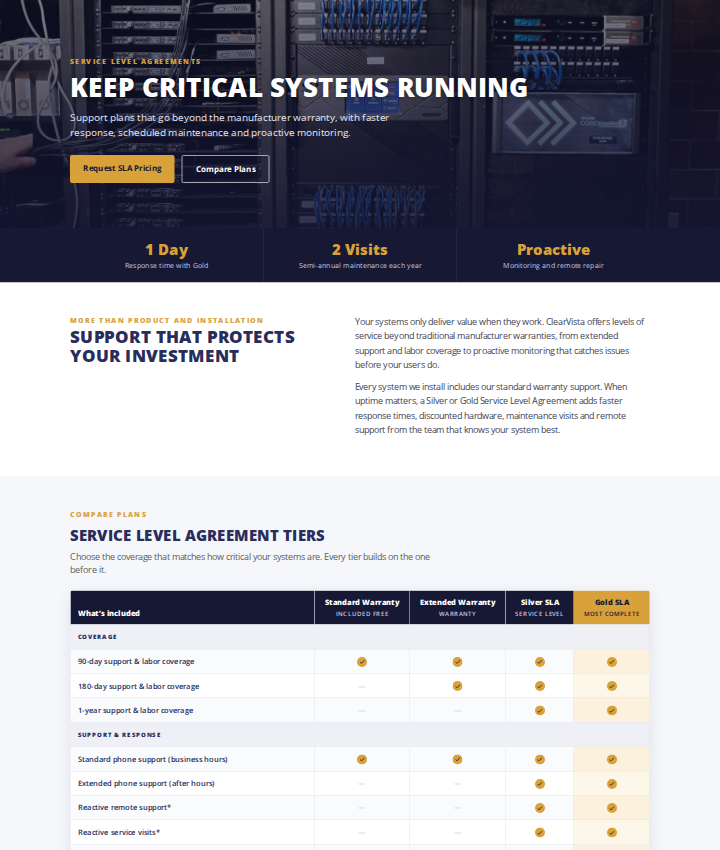
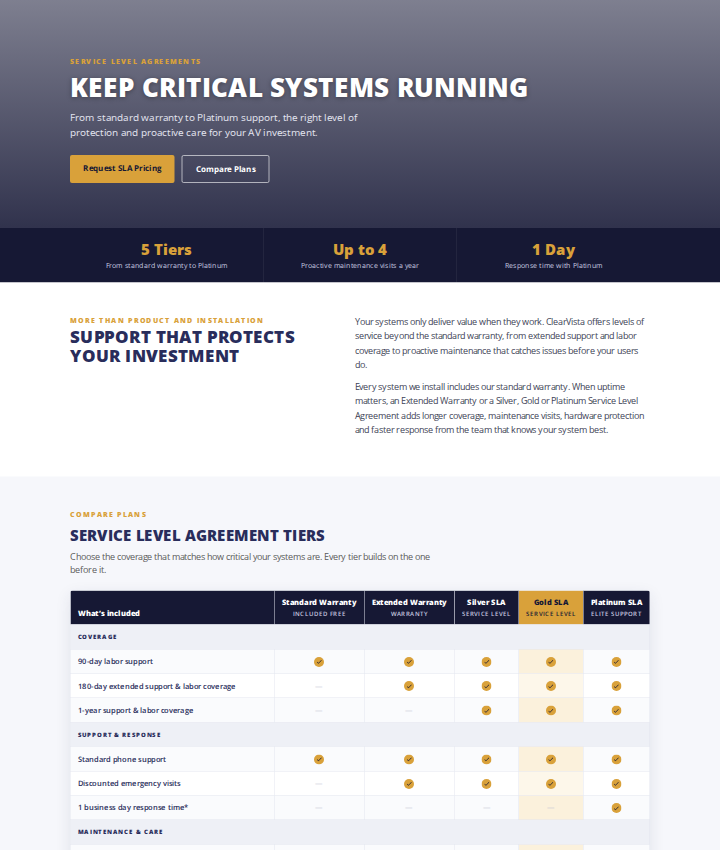
Document methods: CLAUDE.md, runbook, tools, change log and research
- CLAUDE.md with site conventions, style reference, content rules and workflow
- service-pages/tools: preview and live screenshot scripts, page-text diff helper
- docs: competitor research summary and log of live-site changes on 2026-09-24
- Refreshed SLA previews for the five-tier table

Claude-Session: https://claude.ai/code/session_01Xc28rmVeGjwK331j7Gcn43

diff --git a/service-pages/tools/preview-shot.js b/service-pages/tools/preview-shot.js
@@ -1,0 +1,34 @@
+// Screenshot a local preview page (built by gen.py with UTAH_HTML set) in chunks.
+//
+//   node tools/preview-shot.js <build-dir> <slug> <desk|mob> [out-dir]
+//
+// Uses the Chromium that Playwright finds (PLAYWRIGHT_BROWSERS_PATH) and routes
+// through HTTPS_PROXY when set, so live theme CSS, fonts and images load.
+const path = require('path');
+const fs = require('fs');
+let playwright;
+try { playwright = require('playwright'); } catch { playwright = require('/opt/node22/lib/node_modules/playwright'); }
+
+(async () => {
+  const [buildDir, slug, tag = 'desk', outDir = path.join(buildDir, 'shots')] = process.argv.slice(2);
+  if (!buildDir || !slug) { console.error('usage: preview-shot.js <build-dir> <slug> <desk|mob> [out-dir]'); process.exit(1); }
+  fs.mkdirSync(outDir, { recursive: true });
+  const proxy = process.env.HTTPS_PROXY || process.env.https_proxy;
+  const b = await playwright.chromium.launch(proxy ? { proxy: { server: proxy } } : {});
+  const w = tag === 'mob' ? 390 : 1440, scale = tag === 'mob' ? 1 : 0.5, chunk = tag === 'mob' ? 1400 : 1700;
+  const p = await b.newPage({ viewport: { width: w, height: 900 }, deviceScaleFactor: scale, ignoreHTTPSErrors: true });
+  await p.goto('file://' + path.resolve(buildDir, `${slug}.preview.html`), { waitUntil: 'load', timeout: 60000 }).catch(e => console.log('nav', e.message));
+  // Scroll through once so lazy-loaded images render.
+  await p.evaluate(async () => { for (let y = 0; y < document.body.scrollHeight; y += 600) { window.scrollTo(0, y); await new Promise(r => setTimeout(r, 120)); } window.scrollTo(0, 0); });
+  await p.waitForTimeout(1500);
+  const top = await p.evaluate(() => { const e = document.querySelector('.cvs-hero'); return e ? e.getBoundingClientRect().top + scrollY : 0; });
+  const bot = await p.evaluate(() => { const e = document.querySelector('.cvu-form-w') || document.querySelector('#cvs-quote'); return e ? e.getBoundingClientRect().bottom + scrollY : document.body.scrollHeight; });
+  const sw = await p.evaluate(() => document.documentElement.scrollWidth);
+  console.log(slug, tag, 'content', Math.round(top), '->', Math.round(bot), 'scrollWidth', sw, sw > w ? '(HORIZONTAL OVERFLOW)' : '');
+  let i = 0;
+  for (let y = top; y < bot; y += chunk, i++) {
+    await p.screenshot({ path: path.join(outDir, `${slug}-${tag}-${i}.png`), fullPage: true, clip: { x: 0, y, width: w, height: Math.min(chunk, bot - y) } });
+  }
+  console.log('chunks', i, '->', outDir);
+  await b.close();
+})();

diff --git a/service-pages/tools/live-shot.js b/service-pages/tools/live-shot.js
@@ -1,0 +1,22 @@
+// Screenshot the top of a live page after it has fully loaded.
+//
+//   node tools/live-shot.js <url> <out.png> [width=1440] [height=900]
+//
+// Waits 8 seconds after scrolling so CSS background images (hero photos) load;
+// shorter waits can show an empty grey hero even when the page is fine.
+let playwright;
+try { playwright = require('playwright'); } catch { playwright = require('/opt/node22/lib/node_modules/playwright'); }
+
+(async () => {
+  const [url, out, w = '1440', h = '900'] = process.argv.slice(2);
+  if (!url || !out) { console.error('usage: live-shot.js <url> <out.png> [width] [height]'); process.exit(1); }
+  const proxy = process.env.HTTPS_PROXY || process.env.https_proxy;
+  const b = await playwright.chromium.launch(proxy ? { proxy: { server: proxy } } : {});
+  const p = await b.newPage({ viewport: { width: +w, height: 1000 }, deviceScaleFactor: +w > 800 ? 0.5 : 1, ignoreHTTPSErrors: true });
+  await p.goto(url, { waitUntil: 'load', timeout: 60000 });
+  await p.evaluate(async () => { for (let y = 0; y < document.body.scrollHeight; y += 600) { window.scrollTo(0, y); await new Promise(r => setTimeout(r, 100)); } window.scrollTo(0, 0); });
+  await p.waitForTimeout(8000);
+  console.log('height', await p.evaluate(() => document.body.scrollHeight), 'scrollWidth', await p.evaluate(() => document.documentElement.scrollWidth));
+  await p.screenshot({ path: out, clip: { x: 0, y: 0, width: +w, height: +h }, fullPage: true });
+  await b.close();
+})();

diff --git a/service-pages/tools/page-text.py b/service-pages/tools/page-text.py
@@ -1,0 +1,22 @@
+#!/usr/bin/env python3
+"""Print the visible main-content text of a saved goclearvista.com page, one line per text node.
+
+Strips the header, scripts and styles so two saves of the same page can be diffed to confirm
+an edit changed only what was intended:
+
+    curl -sL --compressed -A 'Mozilla/5.0' https://www.goclearvista.com/about-us-2/ -o before.html
+    # ...make the edit...
+    curl -sL --compressed -A 'Mozilla/5.0' "https://www.goclearvista.com/about-us-2/?nc=$RANDOM" -o after.html
+    diff <(python3 tools/page-text.py before.html) <(python3 tools/page-text.py after.html)
+"""
+import html
+import re
+import sys
+
+s = open(sys.argv[1], encoding="utf-8", errors="ignore").read()
+m = re.search(r'<div id="et-main-area"(.*)<footer', s, re.S) or re.search(r"<body(.*)</body>", s, re.S)
+b = m.group(1)
+b = re.sub(r"<header.*?</header>", "", b, flags=re.S)
+b = re.sub(r"(?s)<(script|style)[^>]*>.*?</\1>", "", b)
+t = html.unescape(re.sub(r"<[^>]+>", "\n", b))
+print("\n".join(line.strip() for line in t.split("\n") if line.strip()))

diff --git a/docs/site-change-log-2026-09-24.md b/docs/site-change-log-2026-09-24.md
@@ -1,0 +1,60 @@
+# goclearvista.com Change Log — September 24, 2026
+
+All edits were made through the WordPress.com connector on site ID 257551135 (Divi / Extra theme). WordPress keeps a revision of every page edit, so any change below can be rolled back from the page's **Revisions** screen.
+
+## Navigation
+
+- **Main Menu Bar (menu 525), Services dropdown**, reordered to:
+  1. Design & Engineering
+  2. System Installation
+  3. Custom Programming & Integration (renamed from "Custom Program & Integration")
+  4. Service Level Agreements
+  5. Experience Center
+  6. Other Resources
+- **Dropdown width:** CSS added by ClearVista in Divi → Theme Options → Custom CSS so labels no longer wrap:
+  ```css
+  .et_pb_menu_0_tb_header .nav li ul { width: 300px !important; }
+  .et_pb_menu_0_tb_header .nav li li a { width: 260px !important; white-space: nowrap; padding: 6px 20px; }
+  ```
+
+## Service pages (redesigned and published)
+
+| Page | ID | URL |
+| --- | --- | --- |
+| Design & Engineering | 250158 | `/design-engineering/` |
+| System Installation | 250199 | `/system-installation/` |
+| Custom Programming & Integration | 250190 | `/custom-program-integration/` |
+| Service Level Agreements | 185332 | `/service-level-agreements/` |
+| Experience Center | 250210 | `/experience-center/` (was `/walk-in-showroom/`) |
+
+- Built from `service-pages/gen.py`; source layouts are in `service-pages/build/`.
+- Each uses the full-width template with the Divi builder enabled, one Code module with scoped CSS, and the Zoho "Request a Free Demo or Quote" form tagged with a per-page `ref`.
+- The SLA table follows `ClearVista_SLA_9-24-2026.pdf` (five tiers: Standard Warranty, Extended Warranty, Silver, Gold, Platinum). The PDF is in the media library at `/wp-content/uploads/2026/09/ClearVista_SLA_9-24-2026.pdf` and linked from the page.
+- The review drafts (IDs 254192, 254198, 254199, 254200, 254202) were moved to the trash after publishing.
+
+## "Showroom" removed from current pages
+
+ClearVista no longer wants to suggest retail. Updated wording on:
+
+- **Services (183281):** the card grid was reordered to match the menu, and "Walk-In Showroom" became "Experience Center", linked to `/experience-center/`.
+- **Homepage (249762):** the Experience Center card copy was changed to "Book a guided visit to see working systems in action." and the card now links to `/experience-center/`.
+- **About Us (184927):** "showroom and demo models" became "demo and display models". The visit block's "SHOWROOM / Visit our Walk-In Showroom" became "EXPERIENCE CENTER / Book a guided visit".
+- **Contact Us (185238)** and **Face to Face Sales (189043):** "showroom" was replaced with "Experience Center".
+
+Left as-is by decision, since they are historical (the business was retail then): History of T.V.S. Pro, About Ken Bollinger, the 2021 Remodel Open House page, older blog posts (including "TVS Pro Showroom Update"), the Old Pages list, and "Automotive Showrooms" as an industry name on the Sony Bravia page.
+
+## Redirects
+
+- **Redirection plugin** (v5.10.1) installed and activated. ClearVista completed setup with permalink monitoring on.
+- **Rule:** `/walk-in-showroom/` → `/experience-center/`, 301, case- and trailing-slash-insensitive, query parameters passed through. Verified returning 301.
+- A temporary meta-refresh page (ID 254204) covered the gap before the rule existed. It is now in the trash.
+
+## Not changed
+
+- Homepage services strip order (Integration 02, Installation 03) was kept on purpose, in the order projects happen.
+- Home theater was left off the Experience Center list to keep it commercial.
+
+## Environment notes
+
+- Media uploads through the connector need `public-api.wordpress.com` on the environment's network allowlist. Until then, upload files in WP Admin → Media and share the URL.
+- Connector page edits replace the whole page content, so fetch the current raw content first (`pages.get` with `context: edit`) and change only what's needed.

diff --git a/CLAUDE.md b/CLAUDE.md
@@ -1,0 +1,40 @@
+# ClearVista Website (goclearvista.com)
+
+Working notes for updating the ClearVista WordPress site. ClearVista (DBA of TV Specialists, Inc.; formerly TVS Pro) is a Salt Lake City AV, security and communications integrator for enterprise, education and government.
+
+## Site
+
+- WordPress, Jetpack-connected, site ID **257551135**, managed through the WordPress.com connector.
+- Theme: **Extra** (child theme) with the **Divi** builder and a Divi Theme Builder header/footer.
+- Pages are Divi shortcode layouts. Redesigned pages use a single `[et_pb_code]` module holding scoped `<style>` + HTML, full-width template (`page-template-fullwidth.php`), and meta `_et_pb_use_builder: on`.
+- Forms are Zoho Forms iframes (`forms.goclearvista.com`); tag each with a `ref` query value naming the page.
+- Relevant plugins: WP Rocket (cache), Redirection (301s, permalink monitoring on), Squirrly SEO, Imagify.
+
+## Style reference
+
+Model new or updated pages on the redesigned **Home, Solutions (`/av-solutions/`), Services and State of Utah Contract** pages, and on competitors **AVI-SPL, Ford AV and CTI** (see `docs/competitor-research-summary.md`).
+
+- Colors: navy `#161834` / `#292d5b`, gold `#d9a13a` (text-on-light gold `#b07d1f`), body `#3d3f55`, muted `#595959`, alt background `#f6f7fb`.
+- Components (class prefixes `cvs-`, `cvu-`, `cvp-`): photo hero with gold eyebrow and two buttons, navy stats bar, intro split, gold-topped cards, numbered process steps, chips, dark project spotlight, FAQ accordion, related-services cards, dark CTA band, then the form.
+- The reusable implementation is `service-pages/gen.py`.
+
+## Content rules
+
+- **Never "showroom" or retail language** on current pages. It is the **Experience Center**, framed as a guided visit. Historical pages and old blog posts may keep "showroom".
+- Use only facts ClearVista has published (years, certifications, projects, plan details). No invented stats or guarantees.
+- Services order everywhere (menu, Services grid): Design & Engineering, System Installation, Custom Programming & Integration, Service Level Agreements, Experience Center, Other Resources. Exception: the homepage strip keeps Integration before Installation, in the order projects happen.
+- Never use `[` or `]` in page copy (Divi parses them as shortcodes).
+
+## Workflow
+
+1. **Drafts first.** Create a draft copy of the page (title suffix "(Redesign Draft)"). ClearVista approves before anything goes live.
+2. To publish, copy the approved content onto the existing live page ID so the URL and menu items stay the same, then trash the draft.
+3. Connector edits replace the whole page: fetch raw content with `pages.get` and `context: edit`, change only what's needed, and diff before and after with `service-pages/tools/page-text.py`.
+4. Preview locally against the live theme CSS (`gen.py` with `UTAH_HTML`, then `tools/preview-shot.js`) at desktop 1440px and mobile 390px, and check for horizontal overflow.
+5. Changing a slug: Redirection's permalink monitor now creates the 301 automatically; still confirm with `curl -I`.
+6. Record live-site changes in `docs/` (see `docs/site-change-log-2026-09-24.md`).
+
+## Environment notes
+
+- Uploading media through the connector needs `public-api.wordpress.com` on the environment's network allowlist; otherwise ClearVista uploads in WP Admin → Media and shares the URL.
+- Live screenshots: wait several seconds after load, or CSS background images appear missing.

diff --git a/docs/competitor-research-summary.md b/docs/competitor-research-summary.md
@@ -1,0 +1,32 @@
+# Competitor Research: Service Pages
+
+Reviewed September 24, 2026 to guide the redesign of ClearVista's service pages. Sites reviewed: AVI-SPL (www.avispl.com), Ford AV (www.fordav.com) and CTI (www.cti.com).
+
+## Findings
+
+- **CTI** is a real AV integrator: designing, building and supporting AV systems since 1988, and a PSNI affiliate.
+- **Ford AV** has a Salt Lake City office and targets Utah buyers directly, so it is a local competitor.
+- **Ford AV has the most complete service pages.** Section order:
+  1. Hero with one call-to-action button
+  2. Grid of six benefits
+  3. Process with named steps
+  4. Deliverables and supported platforms
+  5. Who the service is for
+  6. Why choose Ford AV
+  7. Downloadable brochure
+  8. List of locations
+  9. FAQ with 5–10 questions
+  10. Contact form at the bottom
+- **CTI has the most distinctive tone:** plain and reassuring, e.g. "This isn't a ticket queue" and "We support systems we didn't install."
+- **Support plans:** AVI-SPL sells support as named tiers (Enhanced, Elite, Enterprise). CTI bundles a year of support with every install ("CTI Complete").
+- **Experience centers:** none of the three has a page for a permanent experience center or showroom.
+  - AVI-SPL mentions its Dallas office as a "workplace of the future" only inside a case study, and offers 3D virtual room tours with a "Schedule a demo" button.
+  - Ford AV runs a yearly free event, "Innovate – A Technology Experience."
+  - CTI has nothing comparable.
+
+## How it shaped the ClearVista pages
+
+- Every service page follows the Ford AV order, adapted: hero, stats bar, intro, six-card "what's included" grid, named process steps, certifications, a project spotlight, FAQ, links to the other services, and the demo/quote form.
+- Copy uses CTI's plain, outcome-first voice and only facts already published by ClearVista (no invented statistics or guarantees).
+- The Service Level Agreements page presents plans as a tier comparison table (AVI-SPL style), built from ClearVista's own plan PDF.
+- The Experience Center is framed as a guided visit ("Book a Guided Visit"), never a showroom, which is a gap none of the three competitors fills.

diff --git a/service-pages/README.md b/service-pages/README.md
@@ -21,6 +21,26 @@ UTAH_HTML=/path/to/saved-utah-page.html python3 gen.py   # also writes local pre
 
 To publish a page, paste the `.divi.txt` content into the page (or send it through the WordPress connector) with the full-width template and the Divi builder enabled.
 
+## Tools
+
+| Script | Purpose |
+| --- | --- |
+| `tools/preview-shot.js <build-dir> <slug> <desk\|mob>` | Screenshot a local preview (needs `UTAH_HTML` builds) in chunks; flags horizontal overflow. |
+| `tools/live-shot.js <url> <out.png>` | Screenshot the top of a live page after images load. |
+| `tools/page-text.py <saved.html>` | Visible text of a saved page, for before/after diffs of live edits. |
+
+The scripts use Playwright's Chromium and route through `HTTPS_PROXY` when set.
+
+## Updating a page (runbook)
+
+1. Edit the copy or components in `gen.py` and run `python3 gen.py`.
+2. Preview: save the live State of Utah page (`curl -sL https://www.goclearvista.com/state-of-utah-contract/ -o utah.html`), run `OUT_DIR=/tmp/cv UTAH_HTML=utah.html python3 gen.py`, then `node tools/preview-shot.js /tmp/cv <slug> desk` and `... mob`.
+3. Create a draft page with the new `build/<slug>.divi.txt` for approval.
+4. On approval, update the live page ID with the same content, verify it live (`tools/live-shot.js`, then check for raw `[et_pb_` text in the HTML), and trash the draft.
+5. Commit `gen.py` and `build/` so the repo matches the live site.
+
+See `../docs/site-change-log-2026-09-24.md` for what changed on the live site, and `../CLAUDE.md` for site conventions.
+
 ## Notes
 
 - Never use `[` or `]` in page copy; Divi treats them as shortcodes. `gen.py` asserts on this.

diff --git a/README.md b/README.md
@@ -1,2 +1,7 @@
 # clearvista-wordpress-goclearvista
-Website update repo
+
+Website update repo for goclearvista.com (WordPress, Divi).
+
+- `CLAUDE.md`: site conventions, style reference, content rules and workflow
+- `service-pages/`: generator, built layouts, tools and previews for the redesigned service pages
+- `docs/`: competitor research and a log of live-site changes
